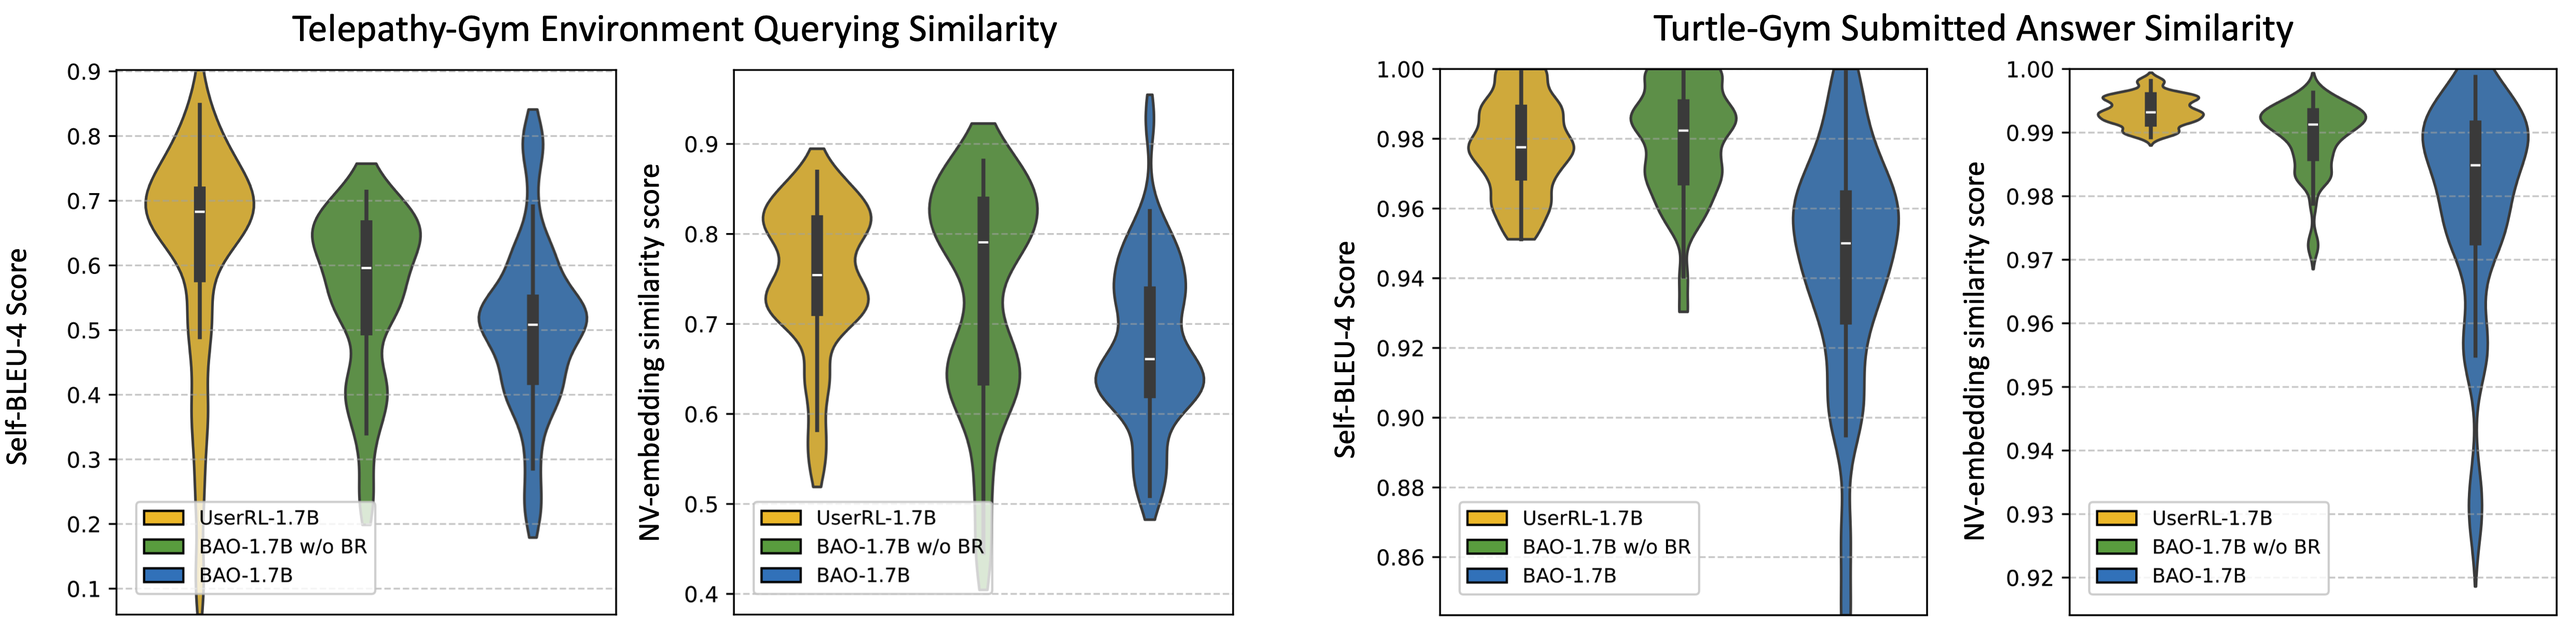
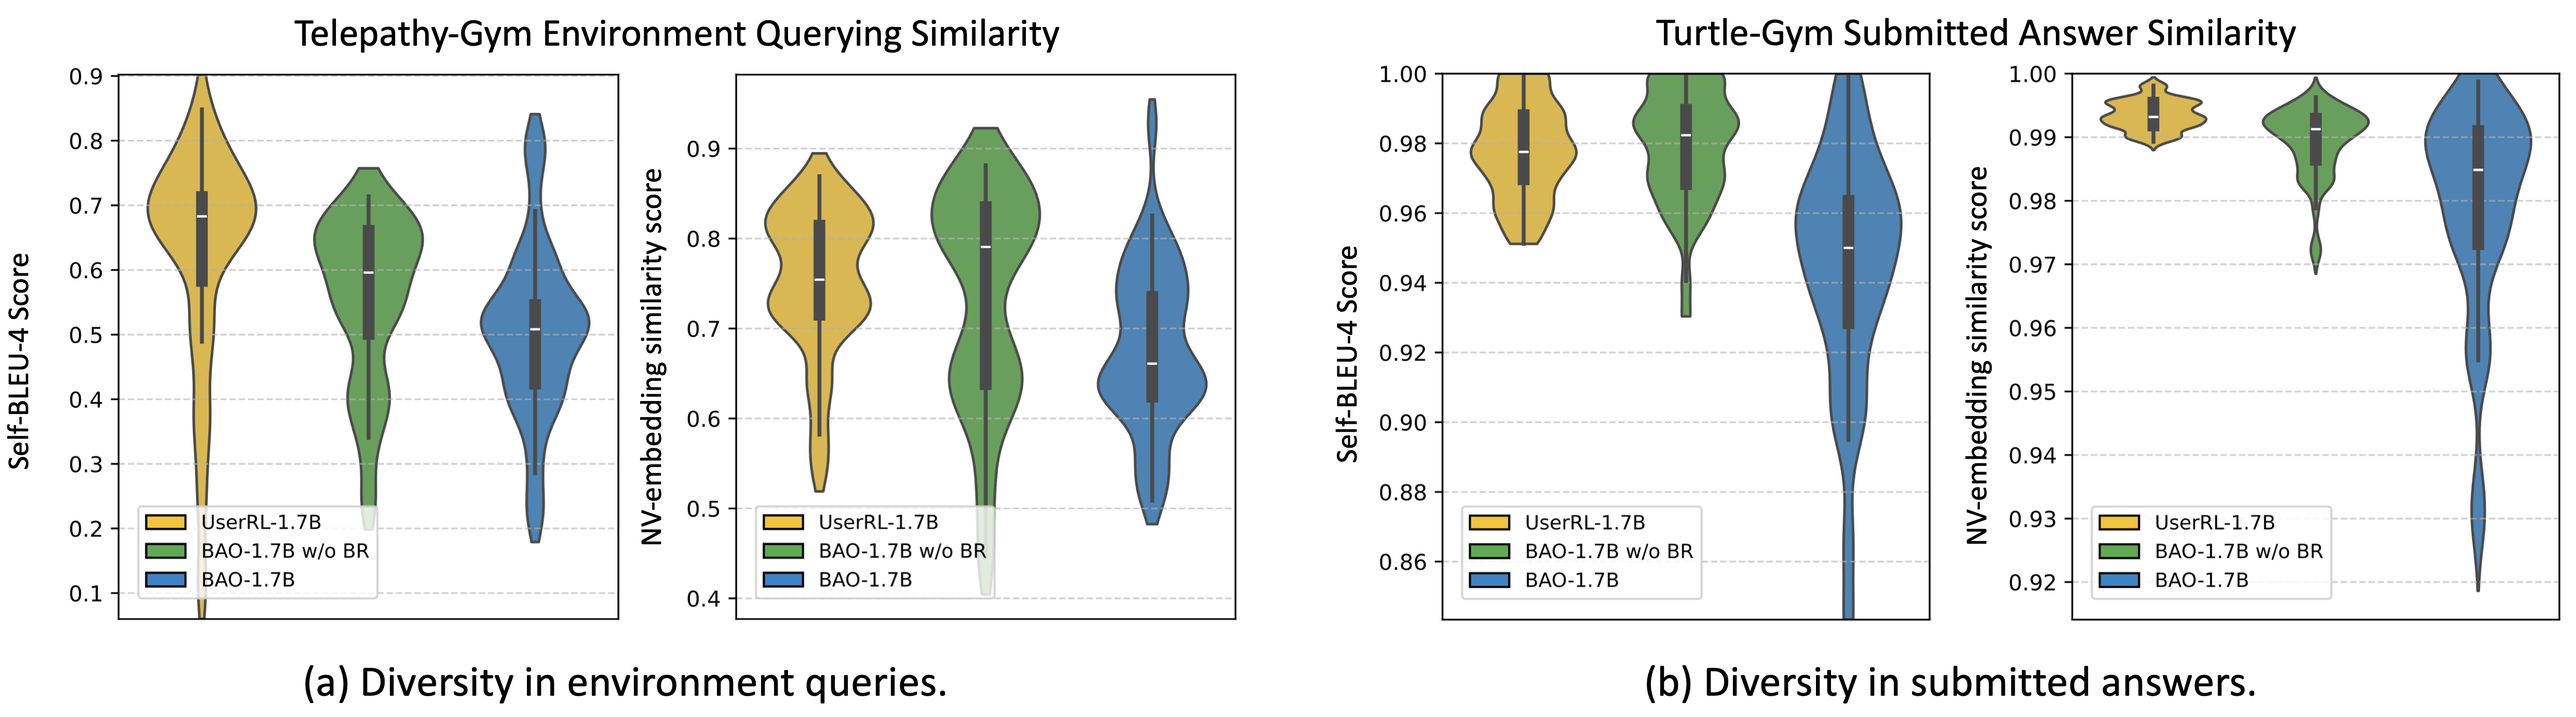
update

diff --git a/index.html b/index.html
@@ -448,11 +448,12 @@
             and to submit answers that are aligned with the underlying context. The finetuning baseline contains the proactive RL algorithm UserRL introduced in the same paper. 
             The main evaluation metrics include <strong>Pass@U-k</strong>, which measures the pass rate when allowing up to <em>k</em> user-involved actions per trajectory (i.e., \( U(\tau) = k \)), 
             <strong>Score</strong>, which denotes the task reward, 
-            and the <strong>User-Involvement Rate (UR)</strong>, defined as \( \mathbb{E}[\,U(\tau) / |\tau|\,] \).
+            and the <strong>User-Involvement Rate (UR)</strong>, defined as \( \mathbb{E}[\,U(\tau) / |\tau|\,] \). We aim to train proactive agents with high Pass@U-k and low UR.
           </p>
 
           <p>
-            <strong>Baseline Comparison.</strong> Our BAO learns more efficient proactive behaviors, and pushes forward the Pareto frontiers of agents and approaches or exceeds commercial models.
+            <strong>Baseline Comparison.</strong> 
+            The Pareto Frontier of RL-trained proactive agents are visualized in Figure 4. We can clearly see that BAO learns more efficient proactive behaviors, and pushes forward the Pareto frontiers of agents with a significantly high performance increase rate when receiving more feedback information from users and a higher upper bound of performance when working with users.
           </p>
           <div class="content has-text-centered">
 
@@ -474,7 +475,14 @@
           
 
           <p>
-            <strong>Behavior Analysis.</strong> In this work, we highlight the trade-off between task performance and user engagement efforts. 
+            <strong>Behavior Analysis.</strong> How does <i>Retrospective Reasoning</i> and <i>Prospective Planning</i> behaviors contribute to the overall performance? We conduct an ablation study by controlling the
+            enhanced behavior types included in the SFT dataset. The results are visualized in Figure 5.
+
+            
+          </p>
+
+          <p>
+            We observe that <i>Retrospective Reasoning</i> increases the upper bound of the pass rate, as reflected by the highest Score value, which corresponds to the pass rate achievable when the agent is allowed to submit answers until the interaction budget is exhausted. However, retrospective reasoning alone does not necessarily improve Pass@U-1. One straightforward explanation is that only when the number increases does the incorporation of history start to show its capability. In contrast, <i>Prospective Planning</i> improves Pass@U-1 due to its planning-ahead capability. Nevertheless, prospective planning does not achieve the highest Score, indicating that under longer interaction horizons, retrospective reasoning is still required to effectively summarize past information and connect it to future actions. By combining these two behaviors, we achieve balanced performance in both metrics, as demonstrated by the full BAO implementation.
           </p>
 
           <div class="content has-text-centered">
@@ -496,7 +504,12 @@
           </div>
 
           <p>
-            <strong>Proactive Exploration.</strong> In this work, we highlight the trade-off between task performance and user engagement efforts. 
+            <strong>Proactive Exploration.</strong> How does BAO improve information collection strategies and hidden context exploration? We analyze exploration capability through two forms of diversity: diversity in environment queries, which reflects how effectively the agent collects information from the environment, and diversity in answer submissions, which captures the agent's ability to explore alternative reasoning paths after receiving negative user feedback. We utilize self-BLEU score and embedding similarity of the <a href="https://huggingface.co/nvidia/NV-Embed-v2" style="color: #1a73e8;">NV-Embed-v2 model</a> to analyze the diversity. The results are presented in Figure 6.
+          </p>
+
+          <p>
+            The results of diversity in environment queries comfirm that our BAO significantly increases diversity during the information-gathering stage, as reflected by lower lexical and semantic similarity scores. Results from answer submissions diversity further indicate that after information gathering, BAO explores the answer space more efficiently by reducing answer redundancy when submitting answers following failures. 
+            Another finding is that relying solely on multi-turn behavior enhancement during SFT is insufficient to preserve these desirable exploration behaviors; combining it with regularization during RL yields the strongest capabilities. 
           </p>
 
           <div class="content has-text-centered">
@@ -507,7 +520,7 @@
             width="100%"
           >
           <p class="subtitle is-6 has-text-centered">
-            Figure 6. 
+            Figure 6. Environment queries and submitted answers diversity evaluation. BAO queries more diverse information during interactions and explores answer space better by generating more diverse answers.
           </p>
 
           <img
@@ -518,7 +531,11 @@
           </div>
 
           <p>
-            <strong>Reward Hacking Discussion.</strong> In this work, we highlight the trade-off between task performance and user engagement efforts. 
+            <strong>Reward Hacking Discussion.</strong> How does the notorious reward hacking issue in LLM-as-Judges affect proactive agent training?  A common form of reward hacking involves repeatedly generating long answers to confuse the judge model, inducing it to leak hidden knowledge or assign positive rewards even when the response does not explicitly satisfy the target rubrics. 
+          </p>
+
+          <p>
+            To quantitatively characterize this issue, we visualize the average number of answer tokens per trajectory, the reward score, and pass@U-1 in training and testing in Figure 7. We observe that UserRL produces significantly longer answers and achieves higher training scores and pass@U-1. However, during evaluation, both the score and pass@U-1 drop sharply, despite a high reward translation rate (RTR=0.166), defined as the ratio between evaluation and training rewards. In contrast, although our BAO attains relatively lower scores and pass@U-1 during training, it consistently outperforms UserRL at evaluation time while maintaining a comparably high RTR =0.545. This indicates that BAO effectively mitigates reward hacking by encouraging desirable interaction behaviors and applying behavior regularization during RL training.
           </p>
 
           <div class="content has-text-centered">
